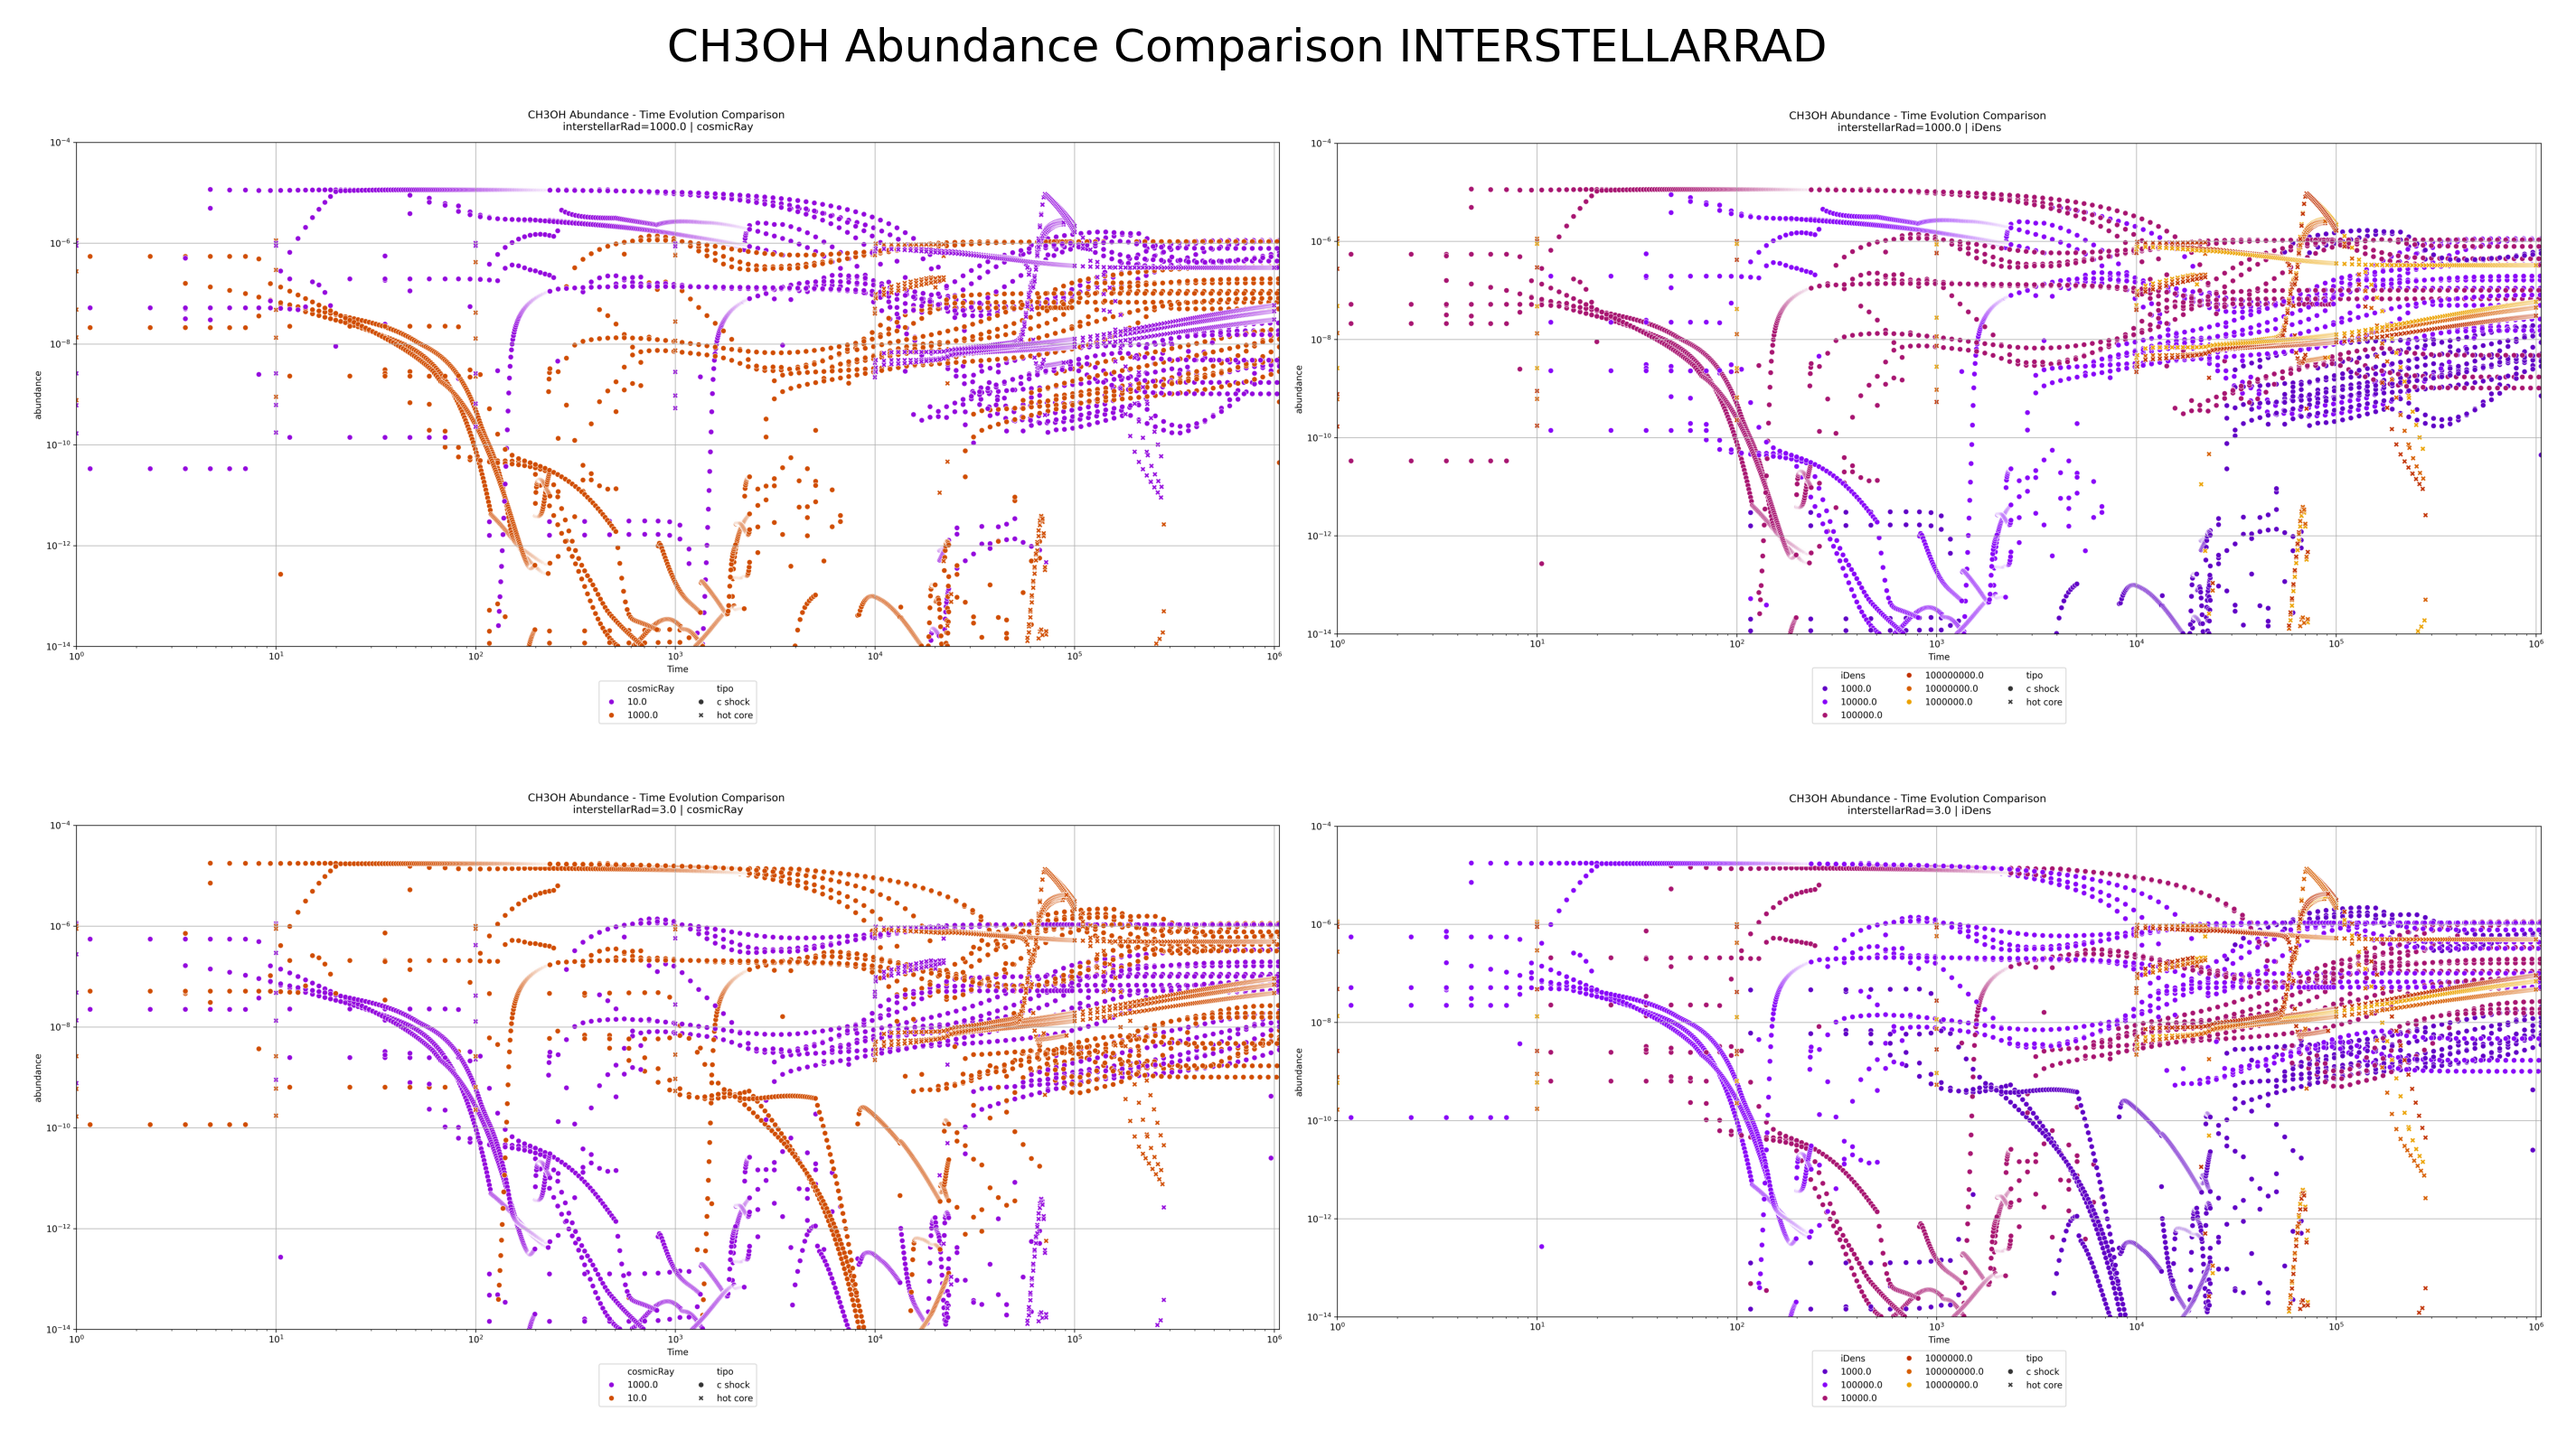
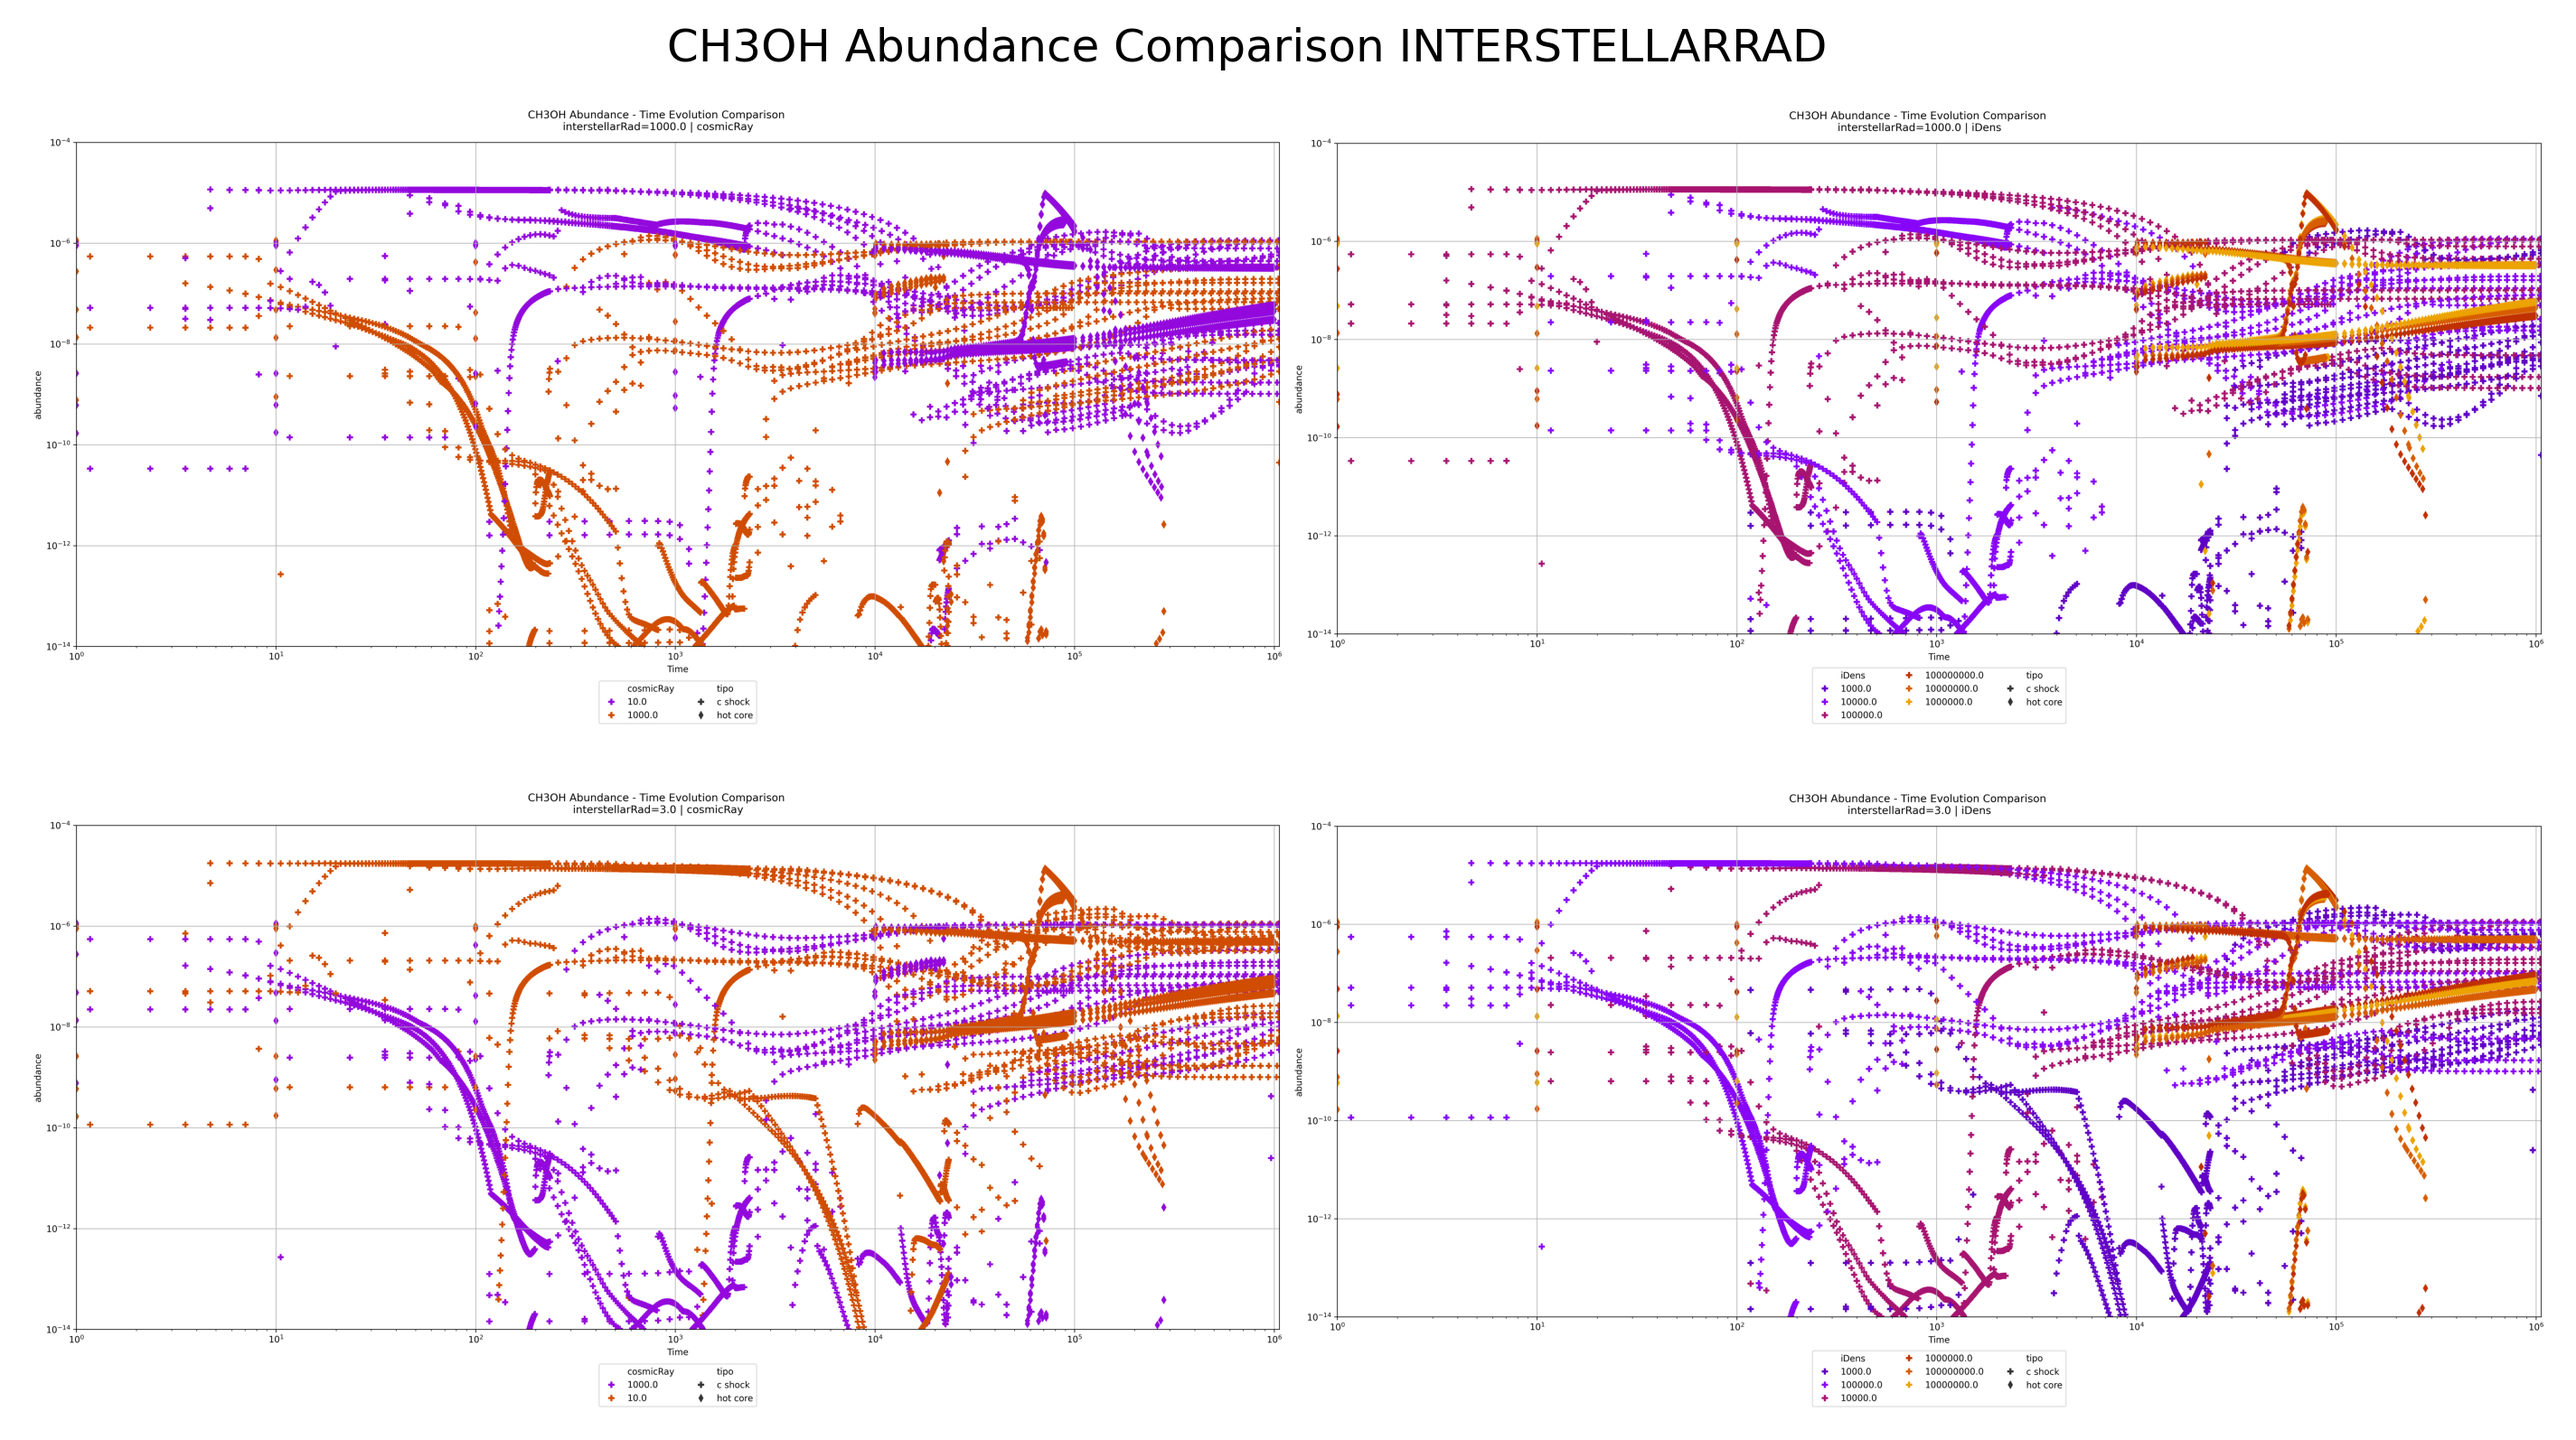
si

diff --git a/CH3OH/Plotting.py b/CH3OH/Plotting.py
@@ -125,16 +125,19 @@ def abundanceComparison(la_df, focusList, hueList, nameBase, saveFig=True, retur
             df=la_df[la_df[focus]==param]
             for hue in [h for h in hueList if h!=focus]:
                 checkFolders(nameBase)
-                figName='_'.join([nameBase+constants.ABUNDANCE,focus,param,hue])+'.png'
+                # figName='_'.join([nameBase+constants.ABUNDANCE,focus,param,hue])+'.png'
+                figName='_'.join([nameBase+constants.ABUNDANCE,constants.SCATTER,focus,param,hue])+'.png'
                 if returnFilepaths:pathDic.append({'focus':focus,'param':param,'hue':hue,'path':figName})
                 if onlyDF: continue
 
                 fig, ax = plt.subplots(figsize=(20,10), layout='tight')
                 ax.grid(True)  
-                sns.lineplot(data=df, x='Time', y='abundance',
+                # sns.lineplot(data=df, x='Time', y='abundance',
+                sns.scatterplot(data=df, x='Time', y='abundance',
                             hue=hue, style='tipo',
                             palette='gnuplot',
-                            errorbar=lambda x: (x.min(), x.max()),
+                            linewidth=0, s=50, markers={constants.HOTCORE: "d", constants.SHOCK: "P"},
+                            # errorbar=lambda x: (x.min(), x.max()),
                             ax=ax)
                 ax.set_xscale('log')
                 ax.set_yscale('log')
@@ -148,7 +151,8 @@ def abundanceComparison(la_df, focusList, hueList, nameBase, saveFig=True, retur
 
 def abundanceComparisonGrid(imList, ncols, nrows, focusParm, nameBase, saveFig=True, title='CH3OH Abundance Comparison '):
     checkFolders(nameBase)
-    figName= '_'.join([nameBase+constants.ABUNDANCE,focusParm])+'.png'
+    # figName= '_'.join([nameBase+constants.ABUNDANCE,focusParm])+'.png'
+    figName= '_'.join([nameBase+constants.ABUNDANCE,constants.SCATTER,focusParm])+'.png'
 
     fig, axs = plt.subplots(ncols,nrows, figsize=(6*nrows,3*ncols))
     fig.subplots_adjust(top=0.95, hspace=0, wspace=0)
